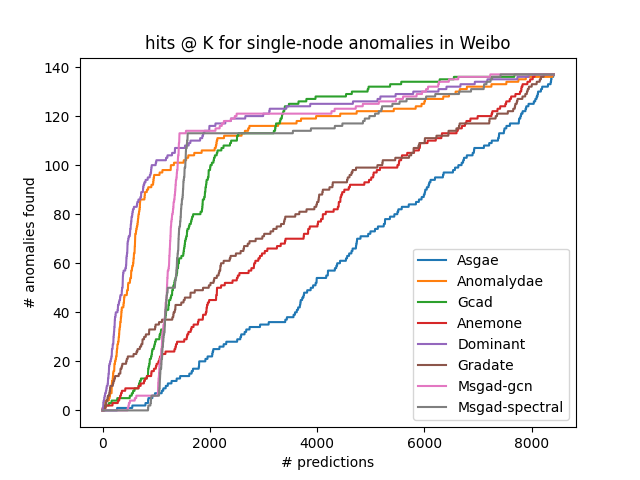
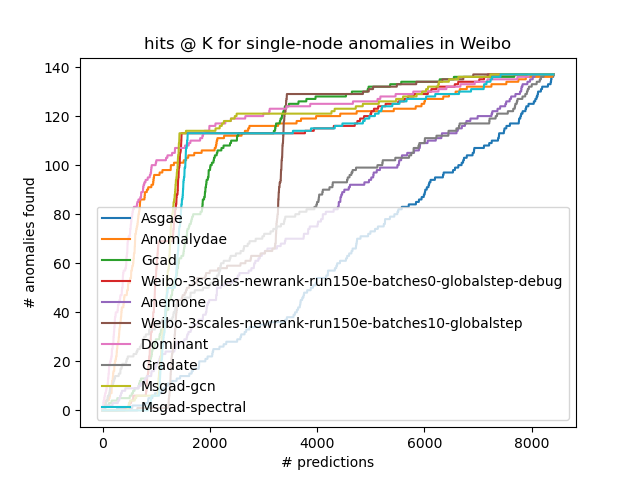
logging current implementation for debugging

diff --git a/msgad/run.py b/msgad/run.py
@@ -65,43 +65,56 @@ def graph_anomaly_detection(exp_params):
             import ipdb ; ipdb.set_trace()
             pass
             #break
-        edge_ids=[]
-        # unpack each of the dataloaders
+        all_edges=[]
+        # unpack easave_batchch of the dataloaders
         for batch,data_inds in enumerate(zip(*dataloader)):
             loaded_input=dataloading.load_batch(batch,'train') if load_data else data_inds
-            g_batch,pos_edges,neg_edges,batch_nodes = zip(*loaded_input)
+            #g_batch,pos_edges,neg_edges,pos_batch_nodes, neg_batch_nodes = zip(*loaded_input)
+            g_batch,pos_edges,neg_edges = zip(*loaded_input) ; pos_batch_nodes = [g_batch[i].ndata['_ID']['_N'].to(device) for i in range(len(g_batch))]
+            #g_batch,pos_edges,neg_edges,pos_batch_nodes = zip(*loaded_input)
+            #all_batch_nodes = [torch.cat((pos_batch_nodes[i],neg_batch_nodes[i])).unique() for i in range(len(pos_batch_nodes))]
+            all_batch_nodes = pos_batch_nodes
             if load_data: pos_edges = [i.to(device) for i in pos_edges] ; neg_edges = [i.to(device) for i in neg_edges] ; lbls = [i.to(device) for i in lbls]
-            edge_ids = [torch.cat((pos_edges[i],neg_edges[i]),axis=0) for i in range(len(pos_edges))]
-            
-            check_batch(pos_edges,neg_edges,clusts)
+            all_edges = [torch.cat((pos_edges[i],neg_edges[i]),axis=0) for i in range(len(pos_edges))]
+            #check_batch(pos_edges,neg_edges,clusts,pos_batch_nodes,neg_batch_nodes)
+            #check_batch(pos_edges,neg_edges,clusts,all_batch_nodes,all_batch_nodes)
             
             if exp_params['DATASET']['DATASAVE']:
-                dataloading.save_batch(loaded_input,iter,'train') ; continue
+                dataloading.save_batch(loaded_input,batch,'train') ; continue
             optimizer.zero_grad()
             for i in loaded_input: del i
             torch.cuda.empty_cache() ; gc.collect()
 
-            pos_edges_og = [edge_ids[ind][adj.has_edges_between(edge_ids[ind][:,0],edge_ids[ind][:,1]).nonzero().T[0]] for ind in range(len(edge_ids))]
-            A_hat,res_a = struct_model(pos_edges_og,feats,edge_ids)
-            
+            #pos_edges_og = [all_edges[ind][adj.has_edges_between(all_edges[ind][:,0],all_edges[ind][:,1]).nonzero().T[0]] for ind in range(len(all_edges))]
+            # double check this indexing approach works
+            #pos_edges_og = [all_edges[ind][adj.has_edges_between(all_edges[ind][:,0][all_batch_nodes[ind]],all_edges[ind][:,1][all_batch_nodes[ind]]).nonzero().T[0]] for ind in range(len(all_edges))]
+            #import ipdb ; ipdb.set_trace()
+            pos_edges_og = [all_edges[ind][adj.has_edges_between(all_batch_nodes[ind][all_edges[ind][:,0]],all_batch_nodes[ind][all_edges[ind][:,1]]).nonzero().T[0]] for ind in range(len(all_edges))]
+            A_hat,res_a = struct_model(pos_edges_og,feats,all_edges)
             torch.cuda.empty_cache() ; gc.collect()
-            loss,struct_loss,clustloss,nonclustloss = LossFunc.calc_loss(adj, A_hat, edge_ids, clusts, batch_nodes)
+            #loss,struct_loss,clustloss,nonclustloss = LossFunc.calc_loss(g_batch, A_hat, all_edges, clusts, batch_nodes)
+            loss,struct_loss,clustloss,nonclustloss = LossFunc.calc_loss(adj, A_hat, all_edges, clusts, all_batch_nodes, pos_edges_og)
             
+            # TODO: FIX
             # anomaly scores
-            batch_scores_sc = score_multiscale_anoms(clustloss,nonclustloss, clusts, res_a)
+            batch_scores_sc = score_multiscale_anoms(clustloss, nonclustloss, clusts, res_a, all_edges)
             batch_scores = batch_scores_sc if batch == 0 else batch_scores + batch_scores_sc
             l = torch.sum(loss) if 'multi-scale' in exp_params['MODEL']['NAME'] else torch.mean(loss)
-            epoch_l = loss.unsqueeze(0) if iter == 0 else torch.cat((epoch_l,l.unsqueeze(0)))
+            epoch_l = loss.unsqueeze(0) if iter == 0 else torch.cat((epoch_l,loss.unsqueeze(0)))
             if exp_params['MODEL']['DEBUG'] and iter % 100 == 0:
                 print(f'Batch: {round(iter/dataloader.__len__()*100, 3)}%', 'train_loss=', round(l.item(),3))
                 
             iter += 1
             
-            l.backward()
-            optimizer.step()
+            #l.backward()
+            #optimizer.step()
             #del pos_edges, neg_edges, l
             torch.cuda.empty_cache() ; gc.collect()
-            
+        import ipdb ; ipdb.set_trace()
+        epoch_l = torch.sum(epoch_l)
+        epoch_l.backward()
+        optimizer.step()
+
         print("Seconds since epoch =", (time.time()-seconds)/60)
         seconds = time.time()
         print("Epoch:", '%04d' % (epoch), "train_loss=", torch.round(torch.sum(loss),decimals=3).detach().cpu().item(), "losses=",torch.round(loss,decimals=4).detach().cpu())
@@ -111,7 +124,7 @@ def graph_anomaly_detection(exp_params):
                 
         print('epoch done',epoch,loss.detach().cpu())
 
-        if epoch == 0 and iter == 1 and exp_params['MODEL']['DEBUG'] is True: tb_writers = TBWriter(tb,sc_label,truth,clusts,exp_params)
+        if epoch == 0 and exp_params['MODEL']['DEBUG'] is True: tb_writers = TBWriter(tb,sc_label,truth,clusts,exp_params)
         
         # logging detection results (at final training epoch)
         log = True if epoch == int(exp_params['MODEL']['EPOCH'])-1 else False
@@ -119,8 +132,8 @@ def graph_anomaly_detection(exp_params):
             a_clf.calc_anom_stats(batch_scores.detach().cpu(),truth,sc_label,verbose=log,log=log)
         if exp_params['MODEL']['DEBUG'] is True:
             for sc,l in enumerate(loss):       
-                tb_writers.tb_write_anom(sc_label,edge_ids,A_hat[sc], batch_scores, struct_loss,sc,epoch,clustloss,nonclustloss,clusts,anom_wise=False,log=log)
-        epoch_l = torch.sum(epoch_l)
+                tb_writers.tb_write_anom(sc_label,all_edges,A_hat[sc], batch_scores, struct_loss,sc,epoch,clustloss,nonclustloss,clusts,anom_wise=False,log=log)
+        
         for name, param in struct_model.named_parameters():
             tb.add_histogram(name, param.flatten(), epoch)
 

diff --git a/msgad/dataloading.py b/msgad/dataloading.py
@@ -47,19 +47,44 @@ class DataLoading:
         if self.dataload:
             return np.arange(len(os.listdir(f'{self.datadir}/{self.exp_name}/{self.dataset}/train')))
         if self.batch_type == 'edge':
-            edge_weights = adj.edata['w'].detach().cpu() ; adj = adj.cpu() ; adj_nodes = adj.nodes().detach().cpu()
+            edge_weights = adj.edata['w'] ; adj = adj.cpu() ; all_nodes = adj.nodes()
             transform = dgl.transforms.AddSelfLoop()
             dgl.distributed.initialize(f'{self.exp_name}-graph')
-            part_g=dgl.distributed.partition_graph(adj.to('cpu'), f'{self.exp_name}-graph_{ind}', 1, num_hops=1, part_method='metis',out_path='output/')
-            dist_g = dgl.distributed.DistGraph(f'{self.exp_name}-graph_{ind}', part_config=f'output/{self.exp_name}-graph_{ind}.json')
-            neg_g=dgl.distributed.partition_graph(neg_adj.to('cpu'), f'neg-{self.exp_name}-graph{ind}', 1, num_hops=1, part_method='metis',out_path='output/')
-            neg_g = dgl.distributed.DistGraph(f'neg-{self.exp_name}-graph{ind}', part_config=f'output/neg-{self.exp_name}-graph{ind}.json')
+            part_g=dgl.distributed.partition_graph(adj.to('cpu'), f'{self.exp_name}-graph_{ind}', 1, num_hops=1, part_method='metis',out_path='dgl_graphs/')
+            dist_g = dgl.distributed.DistGraph(f'{self.exp_name}-graph_{ind}', part_config=f'dgl_graphs/{self.exp_name}-graph_{ind}.json')
+            neg_g=dgl.distributed.partition_graph(neg_adj.to('cpu'), f'neg-{self.exp_name}-graph{ind}', 1, num_hops=1, part_method='metis',out_path='dgl_graphs/')
+            neg_g = dgl.distributed.DistGraph(f'neg-{self.exp_name}-graph{ind}', part_config=f'dgl_graphs/neg-{self.exp_name}-graph{ind}.json')
             
+
             def sample_(seeds):
+                '''
+                for each node (seed), sample nodes in the same cluster, create positive subgraph
+                for negative edges, sample nodes in separate clusters, create negative subgraph
+                '''
                 seeds = torch.LongTensor(np.asarray(seeds))
+
+
+                # sample nodes in the same cluster
+                # pos_clusts_samp = clust[seeds]
+                # import ipdb ; ipdb.set_trace()
+                # pos_nodes_samp = torch.nonzero(clust==pos_clusts_samp[:,None])[:,1]
+                # pos_nodes_samp = pos_nodes_samp[~pos_nodes_samp.isin(seeds)]
+                # pos_nodes_samp = pos_nodes_samp.view(seeds.shape[0],-1).split(self.num_neighbors, dim=1)
+                # frontier = dist_g.subgraph(pos_nodes_samp)
+                # block = dgl.to_block(frontier, seeds).to(self.device)
+
+                # sample nodes in separate clusters
+                # choose (num_neighbors) clusters (sampling with repeats), randomly sample (uniquely) from each cluster
+                # neg_clusts_samp = clust[seeds]
+                # neg_nodes_samp = torch.nonzero(clust!=neg_clusts_samp[:,None])[:,1]
+                # neg_nodes_samp = neg_nodes_samp[~neg_nodes_samp.isin(seeds)]
+                # neg_nodes_samp = neg_nodes_samp.view(seeds.shape[0],-1).split(self.num_neighbors, dim=1)
+                # frontier = dist_g.subgraph(neg_nodes_samp)
+                # neg_block = dgl.to_block(frontier, seeds).to(self.device)
+
                 #frontier = dgl.sampling.sample_neighbors(adj, adj_nodes, 10, exclude_edges=adj.edges('eid')[:adj.number_of_edges()//2])
                 frontier = dgl.distributed.sample_neighbors(dist_g, seeds, self.num_neighbors)
-                block = dgl.to_block(frontier, seeds)
+                block = dgl.to_block(frontier, seeds).to(self.device)
                 batch_nodes = block.ndata['_ID']['_N']
                 
                 #pos_edges_samp = batch_nodes[torch.stack(block.edges()).T]
@@ -68,7 +93,7 @@ class DataLoading:
                     neg_frontier = dgl.distributed.sample_neighbors(neg_g, seeds, self.num_neighbors//2)
                 else:
                     neg_frontier = dgl.distributed.sample_neighbors(neg_g, seeds, self.num_neighbors)
-                neg_block = dgl.to_block(neg_frontier, seeds)
+                neg_block = dgl.to_block(neg_frontier, seeds).to(self.device)
                 neg_edges_samp = torch.stack(neg_block.edges()).T
                 neg_batch_nodes = neg_block.ndata['_ID']['_N']
                 assert(torch.where(neg_edges_samp[:,0]==neg_edges_samp[:,1])[0].shape[0]==0)
@@ -84,9 +109,11 @@ class DataLoading:
                 #neg_edges_samp = neg_edges_full[indices_in_full]
                 block.edata['w'] = edge_weights[indices_in_full]
                 # Find the indices of the subsampled edge list in the original edge list
+                #return block, pos_edges_samp, neg_edges_samp, batch_nodes, neg_batch_nodes
                 return block, batch_nodes[pos_edges_samp], neg_batch_nodes[neg_edges_samp], batch_nodes
             
             batch_size = adj.number_of_nodes() if self.batch_size == 0 else int(adj.number_of_nodes()/self.batch_size)
+            # TODO: CHANGE ONCE BATCHING ISSUES FIXED
             dataloader = dgl.distributed.DistDataLoader(dataset=adj.nodes(), batch_size=batch_size,collate_fn=sample_, shuffle=False)
         return dataloader
 
@@ -106,9 +133,10 @@ class DataLoading:
         dirpath = f'{self.datadir}/{self.exp_name}/{self.dataset}/{setting}'
         if not os.path.exists(dirpath):
             os.makedirs(dirpath)
+        # g_batch,pos_edges,neg_edges,batch_nodes
         with open (f'{dirpath}/{iter}.pkl','wb') as fout:
             pkl.dump({'loaded_input':loaded_input},fout)
-
+            
         torch.cuda.empty_cache()
 
     def load_batch(self,iter,setting):

diff --git a/msgad/loss_utils.py b/msgad/loss_utils.py
@@ -13,7 +13,7 @@ class loss_func:
         self.clusts = clusts
         self.regularize=regularize
         
-    def calc_loss(self,lbl,A_hat,edge_ids,clusts, batch_nodes):
+    def calc_loss(self,lbl,A_hat,edge_ids,clusts, batch_nodes, pos_edges_og):
         """
         Calculate reconstruction error given a graph reconstruction and its corresponding reconstruction label
         Input:
@@ -35,13 +35,20 @@ class loss_func:
                 Scale-wise inter-cluster losses for each node
         """
         total_struct_error=torch.tensor(-1.)
-        
         clusts = torch.tensor(clusts)
         for ind, sc_pred in enumerate(A_hat):
             lbl_edges = torch.zeros(edge_ids[ind].shape[0]).to(sc_pred.device).to(torch.float64)
-            edge_idx=lbl.has_edges_between(edge_ids[ind][:,0],edge_ids[ind][:,1]).nonzero().T[0]
-            lbl_edges[edge_idx] = lbl.edata['w'][lbl.edge_ids(edge_ids[ind][:,0][edge_idx],edge_ids[ind][:,1][edge_idx])].to(torch.float64)
-            total_struct_error, edge_struct_errors,clustloss,nonclustloss = self.get_sampled_losses(sc_pred,edge_ids[ind],lbl_edges,clusts[ind],batch_nodes)
+            # check_batch(pos_edges,neg_edges,clusts,batch_nodes,neg_batch_nodes)
+            #edge_idx=lbl.has_edges_between(edge_ids[ind][:,0][batch_nodes[ind]],edge_ids[ind][:,1][batch_nodes[ind]]).nonzero().T[0]
+            edge_idx = lbl.has_edges_between(batch_nodes[ind][edge_ids[ind][:,0]],batch_nodes[ind][edge_ids[ind][:,1]]).nonzero().T[0]
+            sampled_true_edges = batch_nodes[ind][edge_ids[ind]][edge_idx]
+
+            # test if sampled edges (in original adjacency) are true edges
+            assert(not (lbl.has_edges_between(sampled_true_edges[:,0],sampled_true_edges[:,1])==0).any())
+
+            lbl_edges[edge_idx] = lbl.edata['w'][lbl.edge_ids(sampled_true_edges[:,0],sampled_true_edges[:,1])].to(torch.float64)
+            #total_struct_error, edge_struct_errors,clustloss,nonclustloss = self.get_sampled_losses(sc_pred,edge_ids[ind][batch_nodes[ind]],lbl_edges,clusts[ind],batch_nodes)
+            total_struct_error, edge_struct_errors,clustloss,nonclustloss = self.get_sampled_losses(sc_pred,batch_nodes[ind][edge_ids[ind]],lbl_edges,clusts[ind],batch_nodes)
             
             del lbl_edges, edge_idx
             torch.cuda.empty_cache()

diff --git a/msgad/utils.py b/msgad/utils.py
@@ -23,15 +23,15 @@ from anom_detector import *
 from sklearn.ensemble import IsolationForest
 from itertools import combinations
 
-def check_batch(pos_edges,neg_edges,clusts):
+def check_batch(pos_edges,neg_edges,clusts,batch_nodes,neg_batch_nodes):
     """Ensure that intra-cluster & inter-cluster edges selected align with cluster assignments"""
     try:
         for i in range(len(pos_edges)):
-            attract_e=torch.where(clusts[i][pos_edges[i]][:,0]==clusts[i][pos_edges[i][:,1]])[0]
+            attract_e=torch.where(clusts[i][batch_nodes[i][pos_edges[i]]][:,0]==clusts[i][batch_nodes[i][pos_edges[i]]][:,1])[0]
             
             assert(attract_e.shape[0]==pos_edges[i].shape[0])
-            repel_e=torch.where(clusts[i][pos_edges[i]][:,0]!=clusts[i][pos_edges[i][:,1]])[0]
-            attract_e_neg=torch.where(clusts[i][neg_edges[i]][:,0]==clusts[i][neg_edges[i][:,1]])[0]
+            repel_e=torch.where(clusts[i][batch_nodes[i][pos_edges[i]]][:,0]!=clusts[i][batch_nodes[i][pos_edges[i]][:,1]])[0]
+            attract_e_neg=torch.where(clusts[i][neg_batch_nodes[i][neg_edges[i]]][:,0]==clusts[i][neg_batch_nodes[i][neg_edges[i]][:,1]])[0]
             assert(attract_e_neg.shape[0]==0)
             assert(repel_e.shape[0]==0)
             del attract_e,repel_e,attract_e_neg
@@ -140,7 +140,7 @@ def get_counts(clust,edge_ids):
 
     return intra_edges, pos_counts, neg_counts, pos_clust_counts, neg_clust_counts
 
-def score_multiscale_anoms(clustloss,nonclustloss, clusts, res, agg='std'):
+def score_multiscale_anoms(clustloss,nonclustloss, clusts, res, batch_edges, agg='std'):
     """
     Assign node-wise scores based on intra-cluster residuals
 

diff --git a/msgad/model.py b/msgad/model.py
@@ -92,20 +92,25 @@ class GraphReconstruction(nn.Module):
             recons_a,emb = [],[]
             feats = self.linear_transform_in(feats)
             for ind in range(self.scales):
-                h = self.conv(feats,adj_edges[ind],None)[:,0,:]
+                h = self.conv(feats[batch_edges[ind].unique()],adj_edges[ind],None)[:,0,:]
                 h = self.module_list[ind](h)
-                import ipdb ; ipdb.set_trace()
+                '''
+                # TODO: needed for yelpchi
+                if ind == 0: hs = [h]
+                else: hs.append(h)
                 h_t = torch.transpose(h,0,1)
                 h = torch.mm(h,h_t)
+                if ind == 0: recons = [h]
+                else: recons.append(h)
+                '''
                 # collect results
                 hs = h.unsqueeze(0) if ind == 0 else torch.cat((hs,h.unsqueeze(0)),dim=0)
-                del h, h_t ; torch.cuda.empty_cache() ; gc.collect()
+                del h ; torch.cuda.empty_cache() ; gc.collect()
                         
-            #hs_t=torch.transpose(hs,1,2)
-            #recons = torch.bmm(hs,hs_t)
-            
+            hs_t=torch.transpose(hs,1,2)
+            recons = torch.bmm(hs,hs_t)
 
-            del hs_t ; torch.cuda.empty_cache() ; gc.collect()
+            #del hs_t ; torch.cuda.empty_cache() ; gc.collect()
             recons_f = [torch.sigmoid(self.collect_batch_recons(recons[i],batch_edges[i])) for i in range(self.scales)]
             del recons; torch.cuda.empty_cache() ; gc.collect()
             return recons_f,hs
